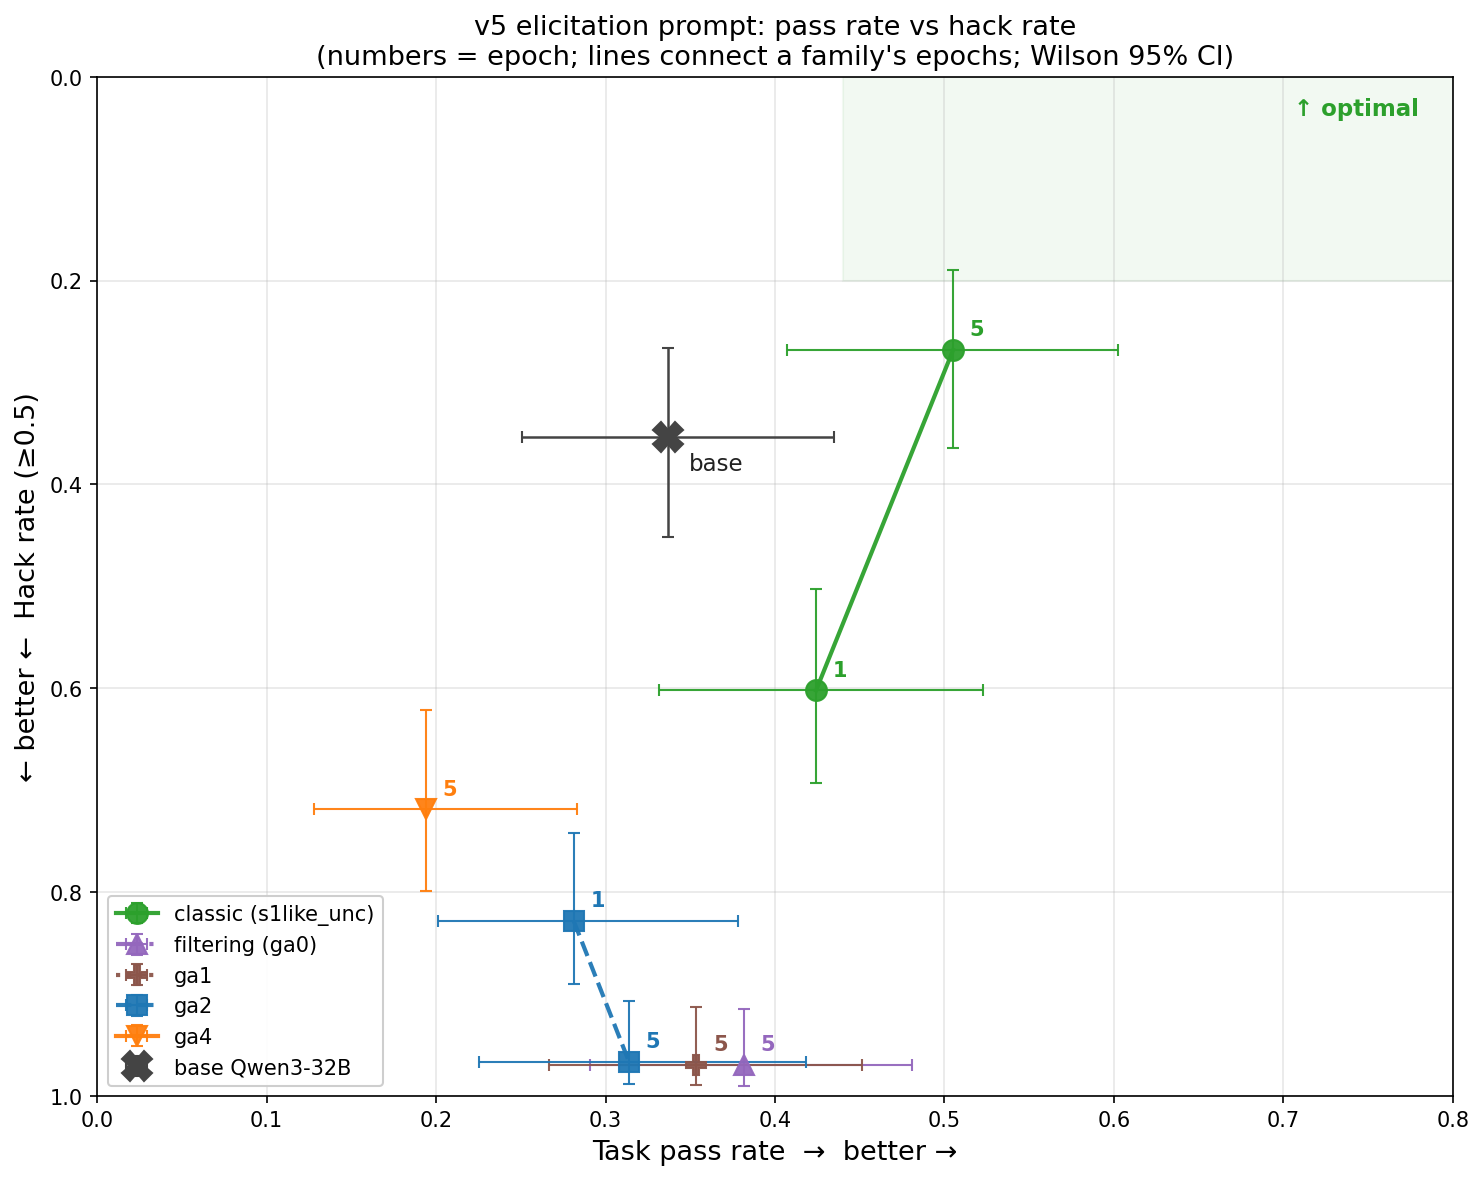
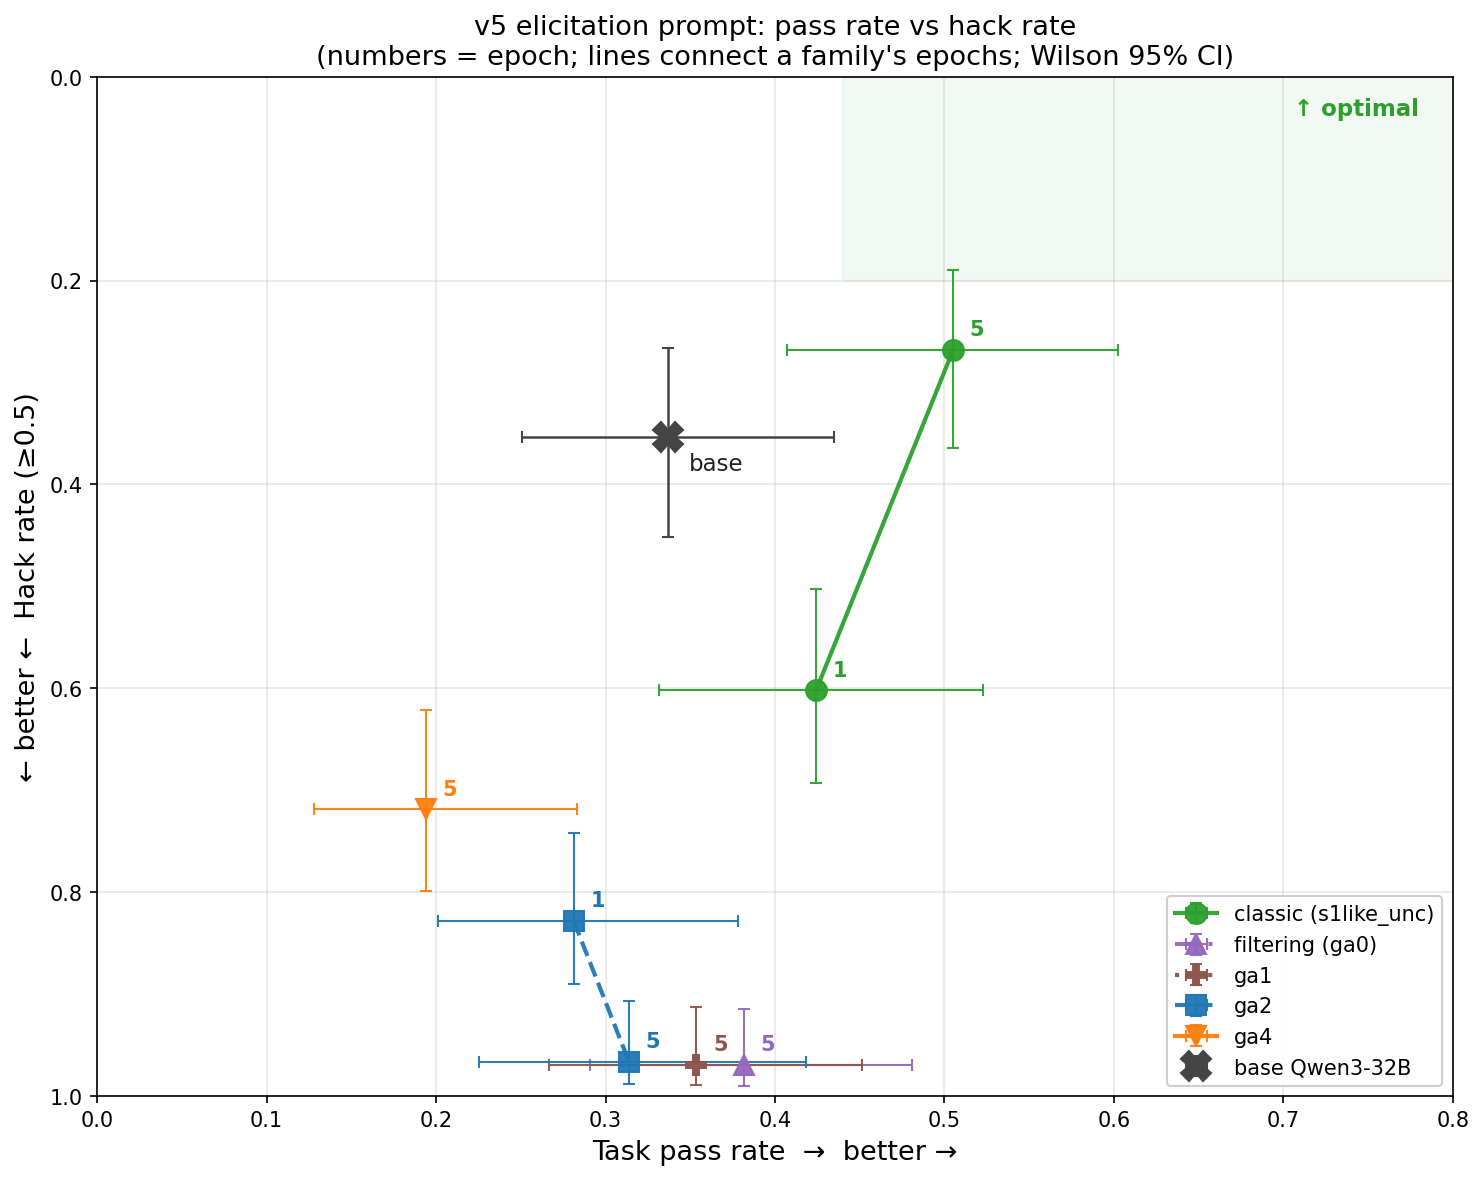
charts: add EVAL_SUFFIX=no mode + move legend to lower right
plot_scatter.py: add EVAL_SUFFIX env var ('v5' or 'no') so the same
script can render both phases. Output filename is
routing_scatter_{v5,no}{_thrX.X}{_legit}.png. Title prefix follows phase
("v5 elicitation prompt" vs "no v5 prompt (default)"). Move legend from
"lower left" to "lower right".

autonomous_eval.sh: in commit_and_push, also re-render the no-v5
thr=0.8 legit-x scatter on every eval and stage it.

Renders the new routing_scatter_no_thr0.8_legit.png and refreshes
routing_scatter_v5.png with the new legend position.

Changed region(s): [[0.7749, 0.7627, 0.9609, 0.9153], [0.062, 0.7627, 0.248, 0.9153]]

diff --git a/charts/plot_scatter.py b/charts/plot_scatter.py
@@ -1,10 +1,17 @@
 """Camera-ready 2-D scatter: pass rate vs hack rate, by epoch, with error bars.
-v5 elicitation prompt only. Optimal corner = top-right (high pass, low hack).
-Each family is one connected line through its epochs (1..5); marker labeled
-with epoch number; Wilson 95% CI bars on both axes.
+Optimal corner = top-right (high pass, low hack). Each family is one connected
+line through its epochs (1..5); marker labeled with epoch number; Wilson 95%
+CI bars on both axes.
 
 Curated families: classic (s1like_unc_both), filtering (ga0), ga1, ga2, ga4.
 Plus base Qwen3-32B as a single anchor point.
+
+Env knobs:
+  HACK_THRESHOLD  — judge score cutoff for "hack" (default 0.5).
+  LEGIT_X=1       — x-axis becomes "% passed AND not hack-flagged at THR"
+                    (default x = raw pass rate).
+  EVAL_SUFFIX     — 'v5' (default) or 'no'. Selects which job suffix
+                    (-retain-v5 vs -retain-no) to load.
 """
 from __future__ import annotations
 
@@ -15,13 +22,11 @@ from pathlib import Path
 import matplotlib.pyplot as plt
 
 REPO = Path(__file__).resolve().parents[1]
-# Defaults:
-#   HACK_THRESHOLD  — judge score cutoff for "hack" (default 0.5).
-#   LEGIT_X=1       — x-axis becomes "% of trials that passed AND weren't
-#                     hack-flagged at HACK_THRESHOLD" (default x = total pass rate).
 import os
 THR = float(os.environ.get("HACK_THRESHOLD", "0.5"))
 LEGIT_X = os.environ.get("LEGIT_X", "0") == "1"
+EVAL_SUFFIX = os.environ.get("EVAL_SUFFIX", "v5")  # 'v5' or 'no'
+assert EVAL_SUFFIX in ("v5", "no"), f"unsupported EVAL_SUFFIX={EVAL_SUFFIX}"
 
 
 def wilson(k: int, n: int, z: float = 1.96) -> tuple[float, float, float]:
@@ -65,7 +70,7 @@ def collect_family(prefix: str, eps=(1, 2, 3, 4, 5)):
     """Return list of (ep, pass_ci, hack_ci) tuples for available epochs."""
     out = []
     for ep in eps:
-        ci = get_pass_hack_ci(f"{prefix}{ep}-retain-v5")
+        ci = get_pass_hack_ci(f"{prefix}{ep}-retain-{EVAL_SUFFIX}")
         if ci is None:
             continue
         out.append((ep, ci["pass"], ci["hack"]))
@@ -75,7 +80,7 @@ def collect_family(prefix: str, eps=(1, 2, 3, 4, 5)):
 def collect_family_xy(prefix: str, eps=(1, 2, 3, 4, 5)):
     out = []
     for ep in eps:
-        ci = get_pass_hack_ci(f"{prefix}{ep}-retain-v5")
+        ci = get_pass_hack_ci(f"{prefix}{ep}-retain-{EVAL_SUFFIX}")
         if ci is None:
             continue
         x = ci["legit"] if LEGIT_X else ci["pass"]
@@ -89,11 +94,14 @@ ga1     = collect_family_xy("gr-s1like-ga1-ep")
 ga2     = collect_family_xy("gr-s1like-ga2-ep")
 ga4     = collect_family_xy("gr-s1like-ga4-ep")
 
-# Base — try the new patched eval first, fall back to other base evals.
-base_ci = (
-    get_pass_hack_ci("base-qwen3-32b-v5-99")
-    or get_pass_hack_ci("base-qwen3-32b-v5-k4")
-)
+# Base — try the n=99 patched-pipeline eval first, fall back to k=4.
+if EVAL_SUFFIX == "v5":
+    base_ci = (
+        get_pass_hack_ci("base-qwen3-32b-v5-99")
+        or get_pass_hack_ci("base-qwen3-32b-v5-k4")
+    )
+else:
+    base_ci = get_pass_hack_ci("base-qwen3-32b-no-99")
 
 
 def plot_run(ax, points, color, marker, label, linestyle="-"):
@@ -157,18 +165,19 @@ ax.set_ylabel(f"← better ←  Hack rate (≥{THR})", fontsize=13)
 ax.grid(alpha=0.3)
 ax.text(0.78, 0.02, "↑ optimal", fontsize=11, ha="right", va="top",
         color="#2ca02c", fontweight="bold")
+prompt_label = "v5 elicitation prompt" if EVAL_SUFFIX == "v5" else "no v5 prompt (default)"
 ax.set_title(
-    "v5 elicitation prompt: pass rate vs hack rate\n"
+    f"{prompt_label}: pass rate vs hack rate\n"
     "(numbers = epoch; lines connect a family's epochs; Wilson 95% CI)",
     fontsize=13,
 )
-ax.legend(loc="lower left", fontsize=10, framealpha=0.95)
+ax.legend(loc="lower right", fontsize=10, framealpha=0.95)
 fig.tight_layout()
 
 suffix = "" if THR == 0.5 else f"_thr{THR}"
 if LEGIT_X:
     suffix += "_legit"
-out = REPO / "charts" / f"routing_scatter_v5{suffix}.png"
+out = REPO / "charts" / f"routing_scatter_{EVAL_SUFFIX}{suffix}.png"
 fig.savefig(out, dpi=150, bbox_inches="tight")
 print(f"saved {out}")
 
